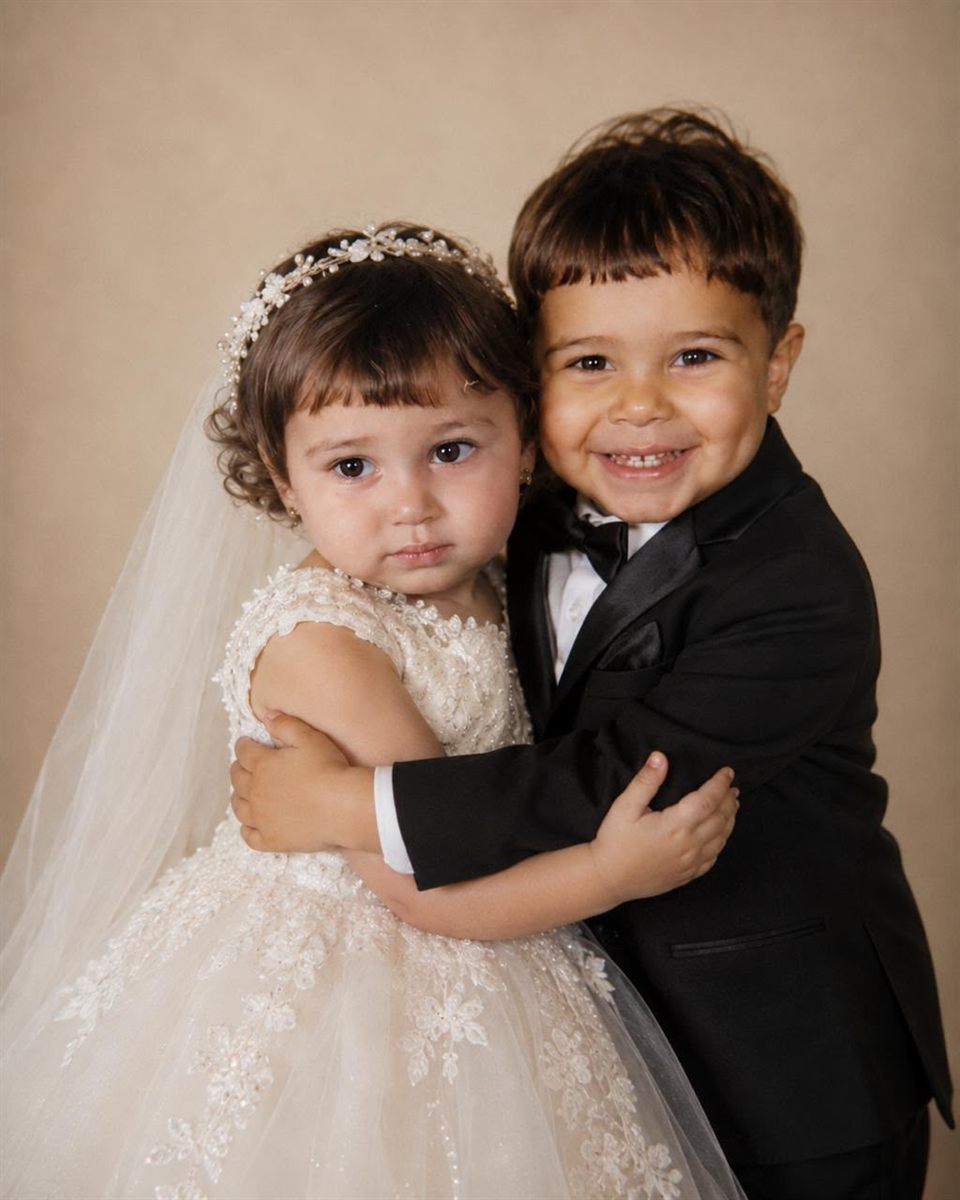
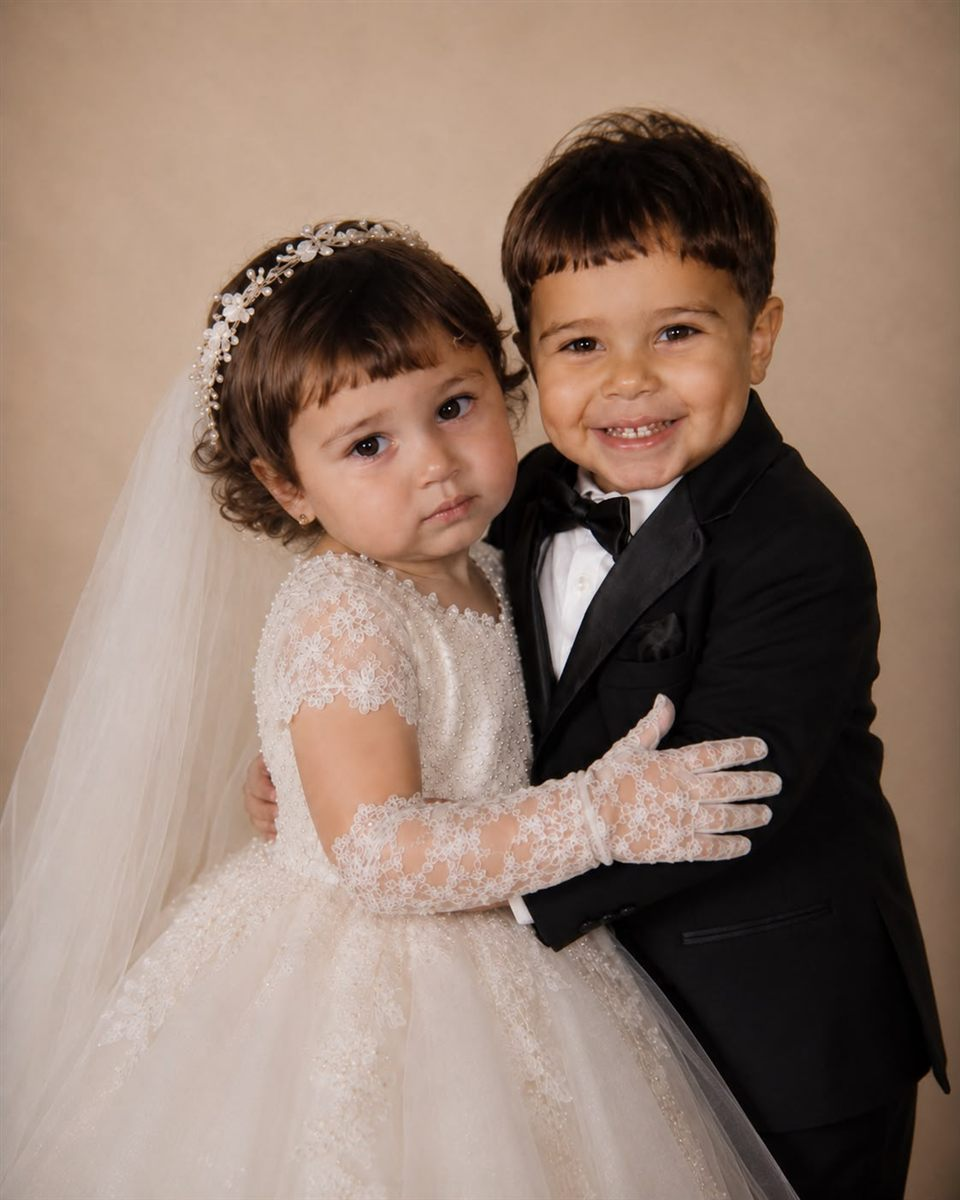
Two final versions, zodiac constellations, Khalid spelling, new photos
The couple chose two designs, now served as separate pages: the root
is version 1 - the starry night with the Wedding March, and their star
signs drawn into the hero sky as real asterisms (Sagittarius as the
Teapot for Khalid, 10 Dec; Leo as the Sickle for Haidy, 25 Jul),
twinkling, labelled, groom on the reading-start side. /v2/ is version
2 - the dove-envelope postal design defaulting to A Thousand Years,
generated from index.html by tools/make-v2.mjs with a <base> tag so
assets resolve from the site root.

Single-design pages hide the variant picker dots. English spelling
corrected to Khalid. The couple's replacement portrait photos are
resized in.

diff --git a/v2/index.html b/v2/index.html
@@ -1,9 +1,10 @@
 <!DOCTYPE html>
-<html lang="ar" dir="rtl" data-lang="ar" data-variant="night">
+<html lang="ar" dir="rtl" data-lang="ar" data-variant="postal">
 <head>
+<base href="/">
 <meta charset="utf-8">
 <meta name="viewport" content="width=device-width, initial-scale=1, viewport-fit=cover">
-<meta name="theme-color" content="#0D1728">
+<meta name="theme-color" content="#F8F3E8">
 <title>خالد و هايدي</title>
 <meta name="description" content="دعوة حفل زفاف خالد و هايدي">
 
@@ -327,10 +328,10 @@ const CONFIG = {
 
   /* v1 = the starry night with the Wedding March; tools/make-v2.mjs
      rewrites these four lines to produce the dove version at /v2/. */
-  version: "v1",
-  defaultSong: 0,
-  variants: ["night"],
-  defaultVariant: "night"
+  version: "v2",
+  defaultSong: 1,
+  variants: ["postal"],
+  defaultVariant: "postal"
 };
 
 /* ═════════════════════════════════════════════════════════════════
